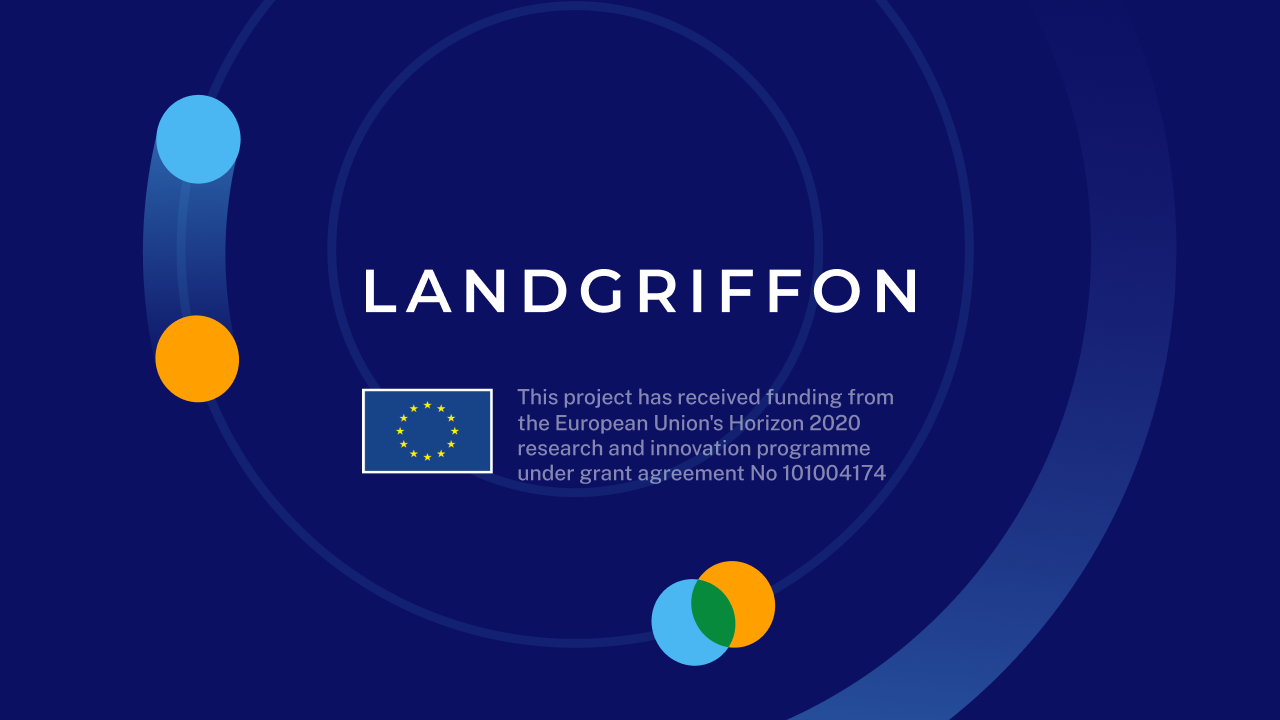
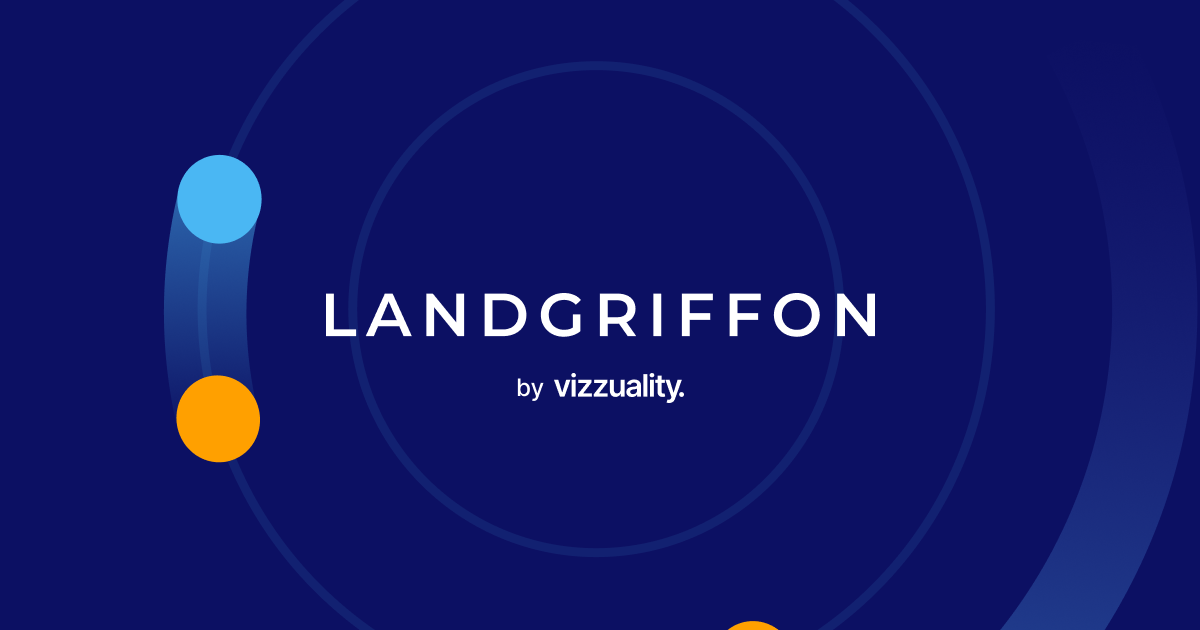
change in images for about, contact and home

diff --git a/marketing/src/pages/about.tsx b/marketing/src/pages/about.tsx
@@ -30,7 +30,7 @@ const AboutPage: FC = () => {
           />
           <meta name="og:type" content="website" />
           <meta name="og:url" content="https://landgriffon.com/about" />
-          <meta name="og:image" content="https://landgriffon.com/images/og/OG-About.png" />
+          <meta name="og:image" content="https://landgriffon.com/images/og/OG-LandGriffon.png" />
         </Head>
 
         <About />

diff --git a/marketing/src/pages/index.tsx b/marketing/src/pages/index.tsx
@@ -26,7 +26,7 @@ const HomePage: FC = () => {
           />
           <meta name="og:type" content="website" />
           <meta name="og:url" content="https://landgriffon.com" />
-          <meta name="og:image" content="https://landgriffon.com/images/og/OG-Home.png" />
+          <meta name="og:image" content="https://landgriffon.com/images/og/OG-LandGriffon.png" />
         </Head>
 
         <Home />
